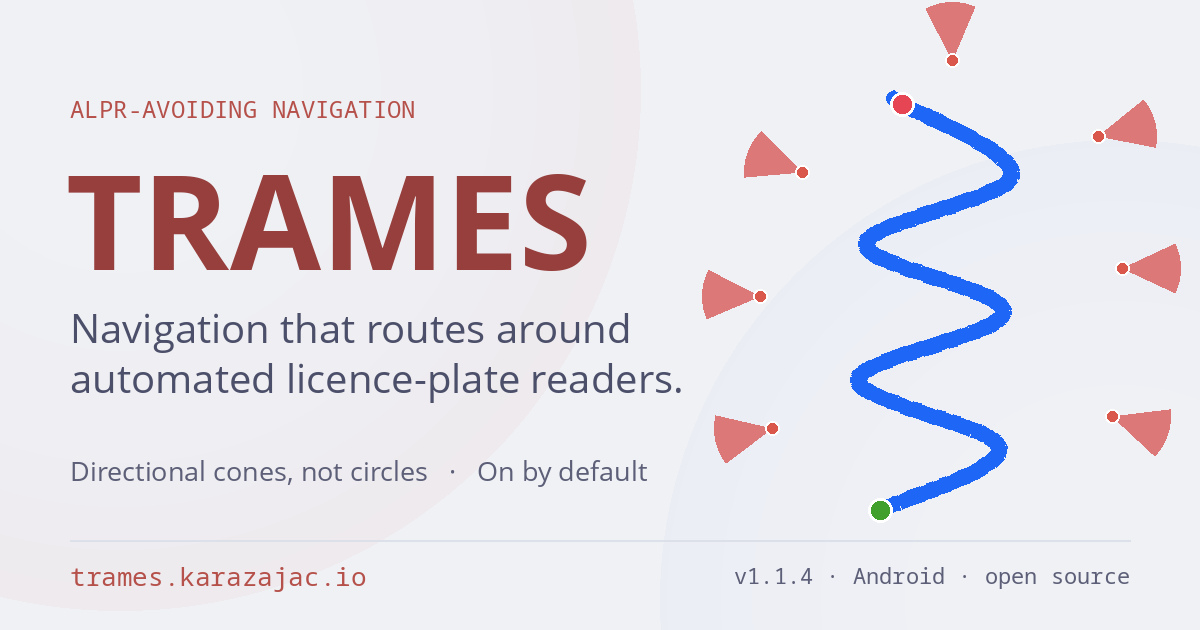
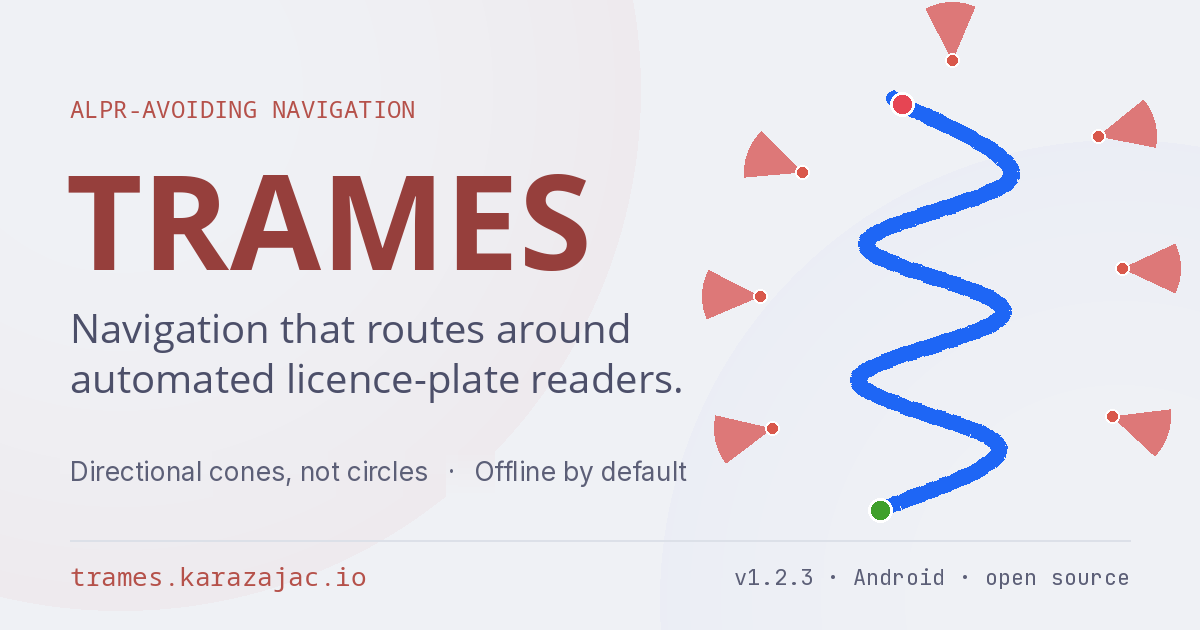
Site: OG card says v1.2.3 and "Offline by default", and is stamped by a script
The share image still read v1.1.4 · "On by default" at v1.2.3: it was a hand-edited
PNG, bumped by hand every release until a release forgot. render-og-card.py now
stamps the version line and the tagline onto docs/og-base.png — the card with those
two strings erased, everything else being the designed artwork — using the site's
own Inter and JetBrains Mono at the sizes and positions measured off the original
(re-stamping the old strings reproduces the old card to within a pixel or two).
Next bump: ./render-og-card.py --version vX.Y.Z. Cache-buster raised to ?v=1232.

Claude-Session: https://claude.ai/code/session_016fBTsQfwCbSCcDkhAe8FAV

diff --git a/docs/index.html b/docs/index.html
@@ -9,11 +9,11 @@
 <meta property="og:description" content="Android navigation that avoids the fields of view of 142,991 mapped ALPR cameras — computed offline, so nothing about where you are leaves the device. Directional cones, not circles. Driving, cycling and walking. Offline maps for all 50 states + DC.">
 <meta property="og:type" content="website">
 <meta property="og:url" content="https://trames.karazajac.io/">
-<meta property="og:image" content="https://trames.karazajac.io/og.png?v=123">
+<meta property="og:image" content="https://trames.karazajac.io/og.png?v=1232">
 <meta property="og:image:width" content="1200">
 <meta property="og:image:height" content="630">
 <meta name="twitter:card" content="summary_large_image">
-<meta name="twitter:image" content="https://trames.karazajac.io/og.png?v=123">
+<meta name="twitter:image" content="https://trames.karazajac.io/og.png?v=1232">
 <meta name="theme-color" content="#eff1f5">
 <link rel="icon" type="image/svg+xml" href="logo.svg">
 

diff --git a/render-og-card.py b/render-og-card.py
@@ -1,0 +1,102 @@
+#!/usr/bin/env python3
+"""Stamp the version line and tagline onto the site's Open Graph card.
+
+    ./render-og-card.py --version v1.2.3                       # writes docs/og.png
+    ./render-og-card.py --version v1.2.3 --tagline "Directional cones, not circles  ·  Offline by default"
+    ./render-og-card.py --make-base                            # (re)build docs/og-base.png from docs/og.png
+
+docs/og-base.png is the card with its two variable strings erased — the wordmark, the
+route illustration and the background tints are the designed artwork and never change.
+The two strings are drawn with the site's own fonts (docs/fonts/*.woff2, converted in
+memory) at the positions measured off the original card, so a version bump is a
+one-line command rather than an image-editing session. Every release before this one
+hand-edited the PNG; the card was still saying v1.1.4 at v1.2.3.
+"""
+import argparse, io, os
+from fontTools.ttLib import TTFont
+from PIL import Image, ImageDraw, ImageFont
+
+HERE = os.path.dirname(os.path.abspath(__file__))
+DOCS = os.path.join(HERE, "docs")
+CARD, BASE = os.path.join(DOCS, "og.png"), os.path.join(DOCS, "og-base.png")
+
+# Measured off the v1.1.4 card (1200x630): where the two strings sit and what they wear.
+# The tagline is three segments — "left · right" — laid out by rule (24 px either side of
+# the dot) so a longer right-hand phrase simply extends rightwards, as it did in the CSS.
+TAGLINE = dict(box=(60, 452, 662, 496), ink_x=72, baseline=481, gap=24, font="inter-latin.woff2", size=26.2, fill="#5c5f77")
+VERSION = dict(box=(716, 556, 1150, 600), ink_x=735, baseline=585, font="jetbrains-mono-latin.woff2", size=22, fill="#5c5f77")
+SUFFIX = " · Android · open source"
+
+
+def font(name, size):
+    t = TTFont(os.path.join(DOCS, "fonts", name)); t.flavor = None
+    buf = io.BytesIO(); t.save(buf); buf.seek(0)
+    f = ImageFont.truetype(buf, size)
+    try:
+        f.set_variation_by_axes([400])          # Regular; both fonts are variable-weight
+    except Exception:
+        pass
+    return f
+
+
+def erase(im, box):
+    """Fill a box by interpolating each column between the rows just above and below it,
+    which follows the background's soft tints instead of stamping a flat rectangle."""
+    x0, y0, x1, y1 = box
+    px = im.load()
+    for x in range(x0, x1):
+        top, bot = px[x, y0 - 1], px[x, y1]
+        for y in range(y0, y1):
+            t = (y - y0 + 1) / (y1 - y0 + 1)
+            px[x, y] = tuple(round(top[i] + (bot[i] - top[i]) * t) for i in range(3))
+
+
+def make_base():
+    im = Image.open(CARD).convert("RGB")
+    erase(im, TAGLINE["box"]); erase(im, VERSION["box"])
+    im.save(BASE, optimize=True); print(f"wrote {BASE}")
+
+
+def ink_extent(f, text):
+    """Left and right edge of the rendered ink relative to the drawing origin. Measured by
+    rendering, because getbbox() pads narrow glyphs (the middle dot reports 7 px of ink
+    for a 3 px dot), and the tagline's gaps are set from the dot's true edges."""
+    w = int(f.getlength(text)) + 64
+    probe = Image.new("L", (w, 96), 0)
+    ImageDraw.Draw(probe).text((32, 64), text, font=f, fill=255, anchor="ls")
+    cols = [x for x in range(w) if any(probe.getpixel((x, y)) > 64 for y in range(96))]
+    return cols[0] - 32, cols[-1] - 32
+
+
+def draw_ink(d, f, text, ink_x, baseline, fill):
+    """Draw so the glyphs' ink starts exactly at ink_x; return the ink's right edge."""
+    x0, x1 = ink_extent(f, text)
+    d.text((ink_x - x0, baseline), text, font=f, fill=fill, anchor="ls")
+    return ink_x + (x1 - x0)
+
+
+def render(version, tagline, out):
+    im = Image.open(BASE).convert("RGB")
+    d = ImageDraw.Draw(im)
+    f = font(TAGLINE["font"], TAGLINE["size"])
+    left, _, right = tagline.partition("·")
+    x = draw_ink(d, f, left.strip(), TAGLINE["ink_x"], TAGLINE["baseline"], TAGLINE["fill"])
+    x = draw_ink(d, f, "·", x + TAGLINE["gap"], TAGLINE["baseline"], TAGLINE["fill"])
+    draw_ink(d, f, right.strip(), x + TAGLINE["gap"], TAGLINE["baseline"], TAGLINE["fill"])
+    draw_ink(d, font(VERSION["font"], VERSION["size"]), version + SUFFIX, VERSION["ink_x"], VERSION["baseline"], VERSION["fill"])
+    im.save(out, optimize=True); print(f"wrote {out}")
+
+
+if __name__ == "__main__":
+    ap = argparse.ArgumentParser()
+    ap.add_argument("--version", help="e.g. v1.2.3")
+    ap.add_argument("--tagline", default="Directional cones, not circles · Offline by default")
+    ap.add_argument("--make-base", action="store_true")
+    ap.add_argument("-o", "--out", default=CARD)
+    a = ap.parse_args()
+    if a.make_base:
+        make_base()
+    if a.version:
+        if not os.path.exists(BASE):
+            raise SystemExit("no docs/og-base.png — run with --make-base first (from a card whose strings are current)")
+        render(a.version, a.tagline, a.out)
